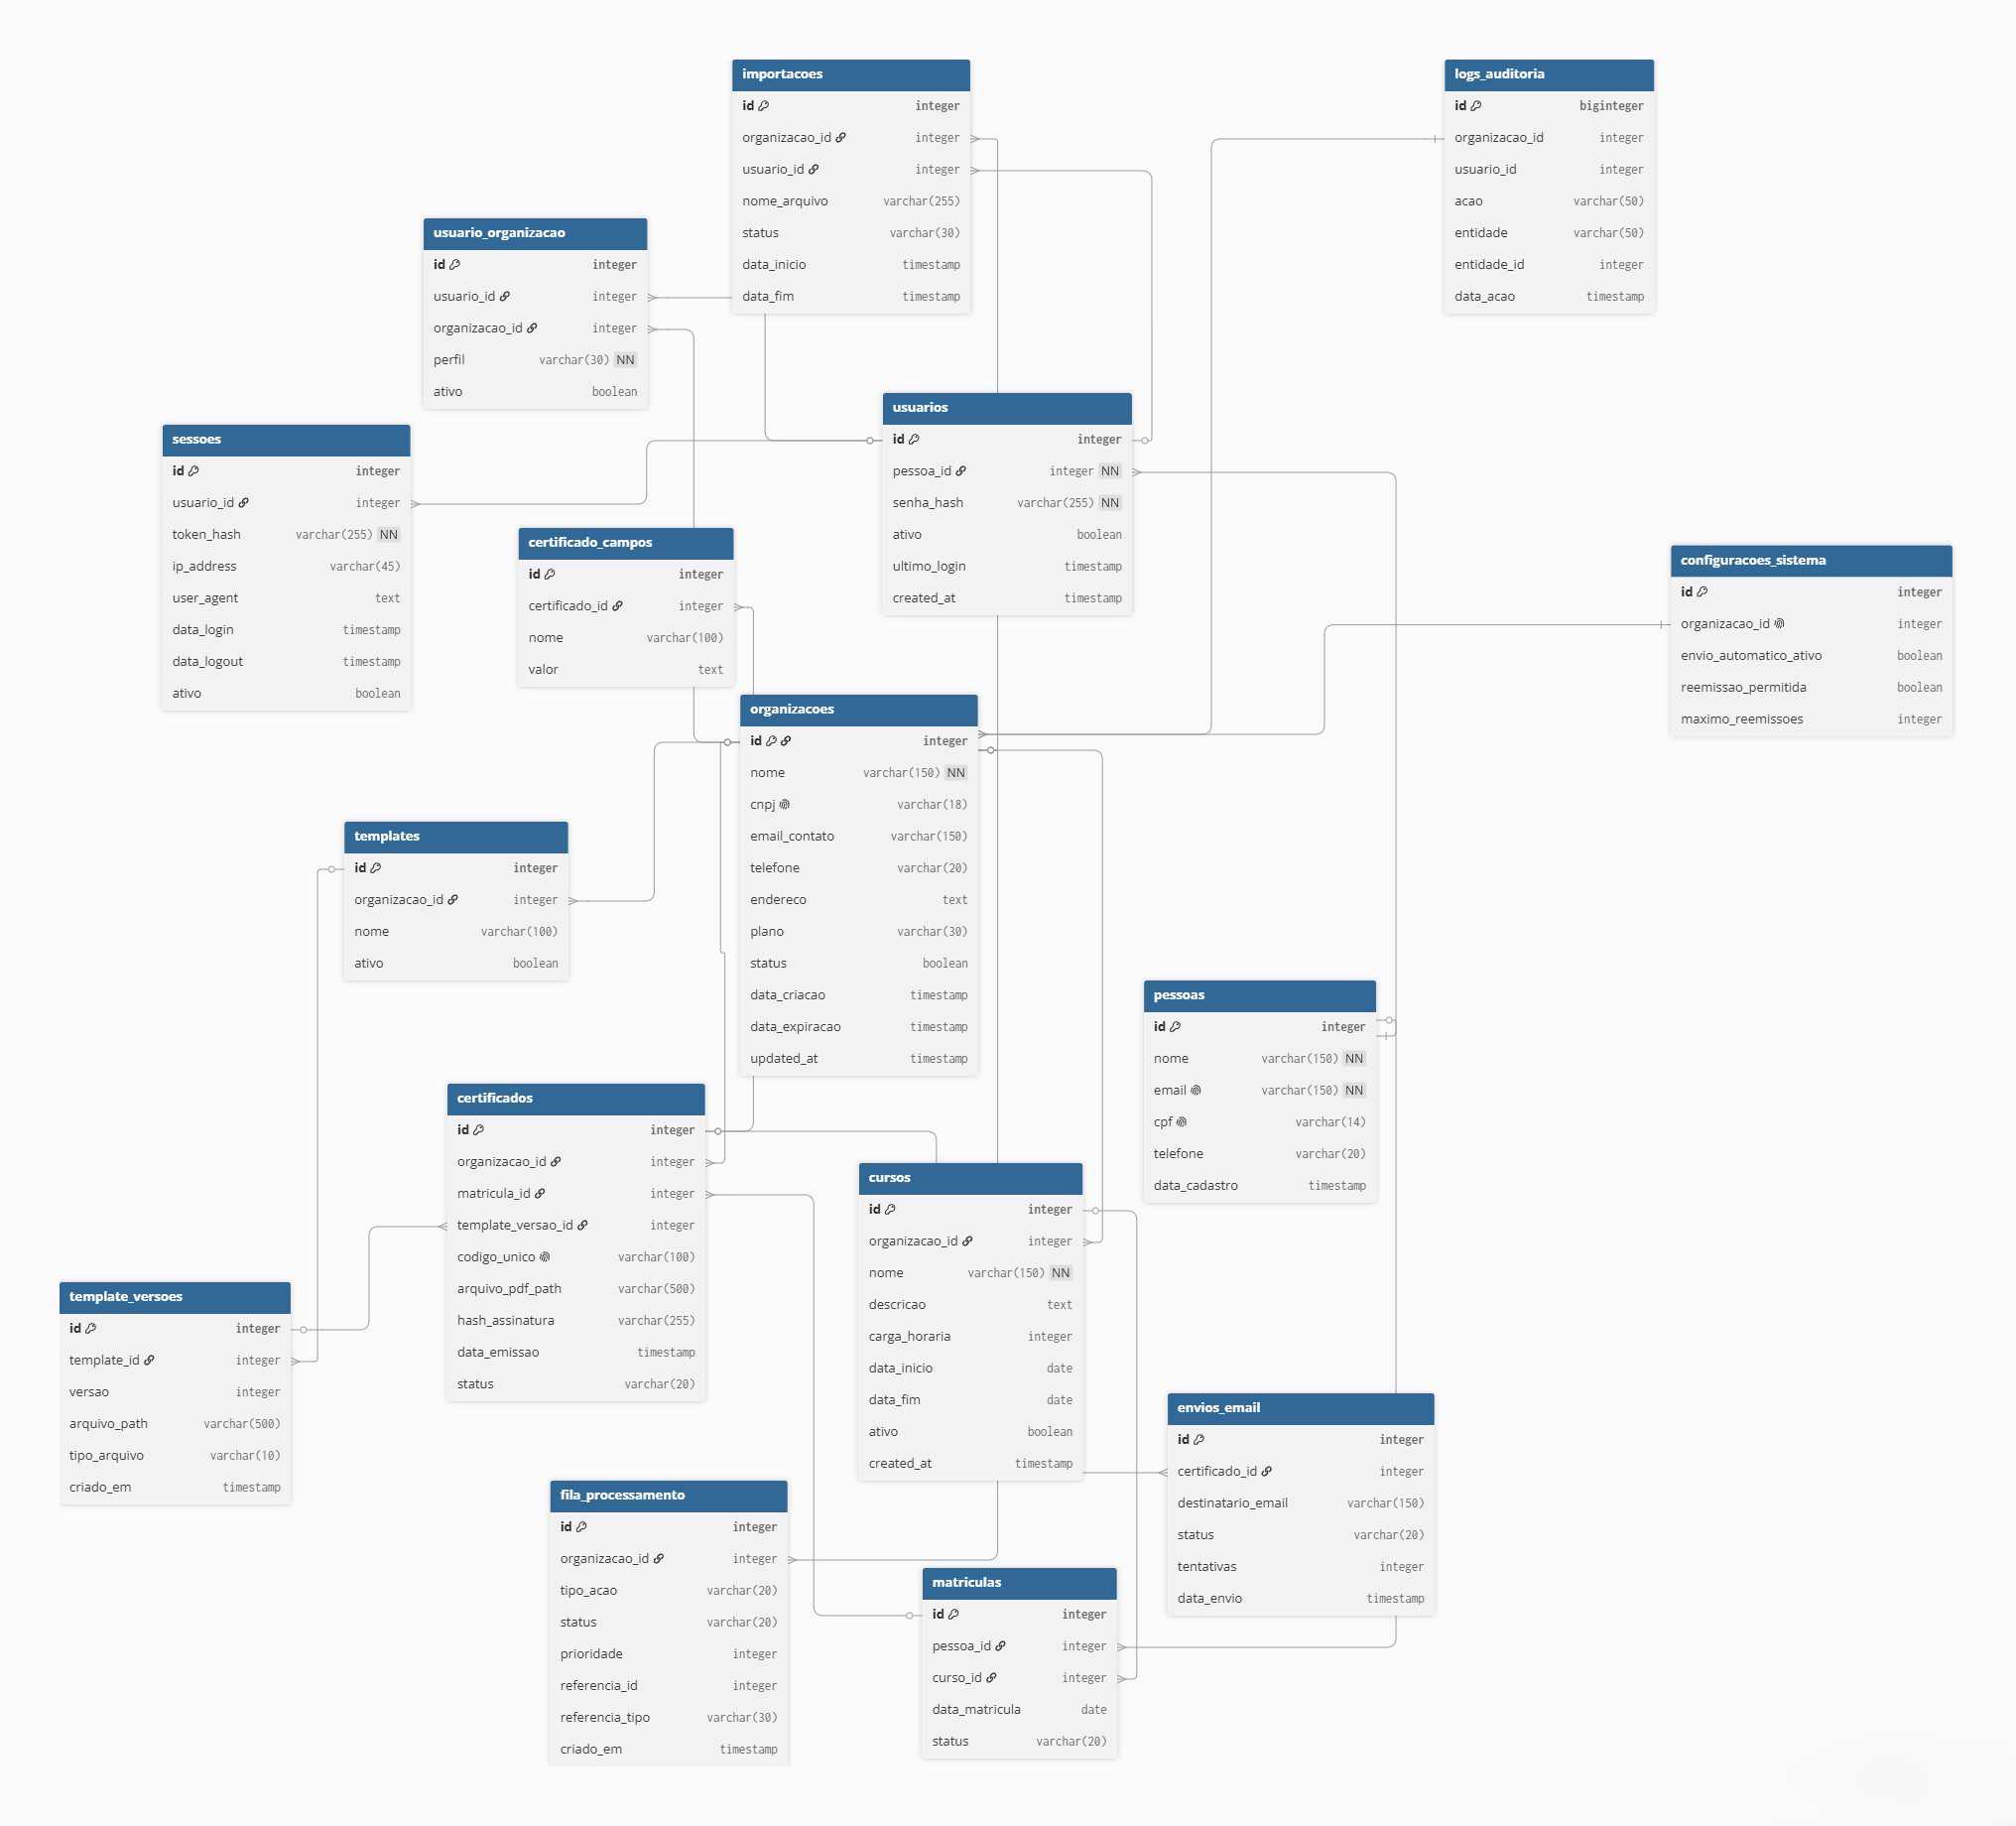
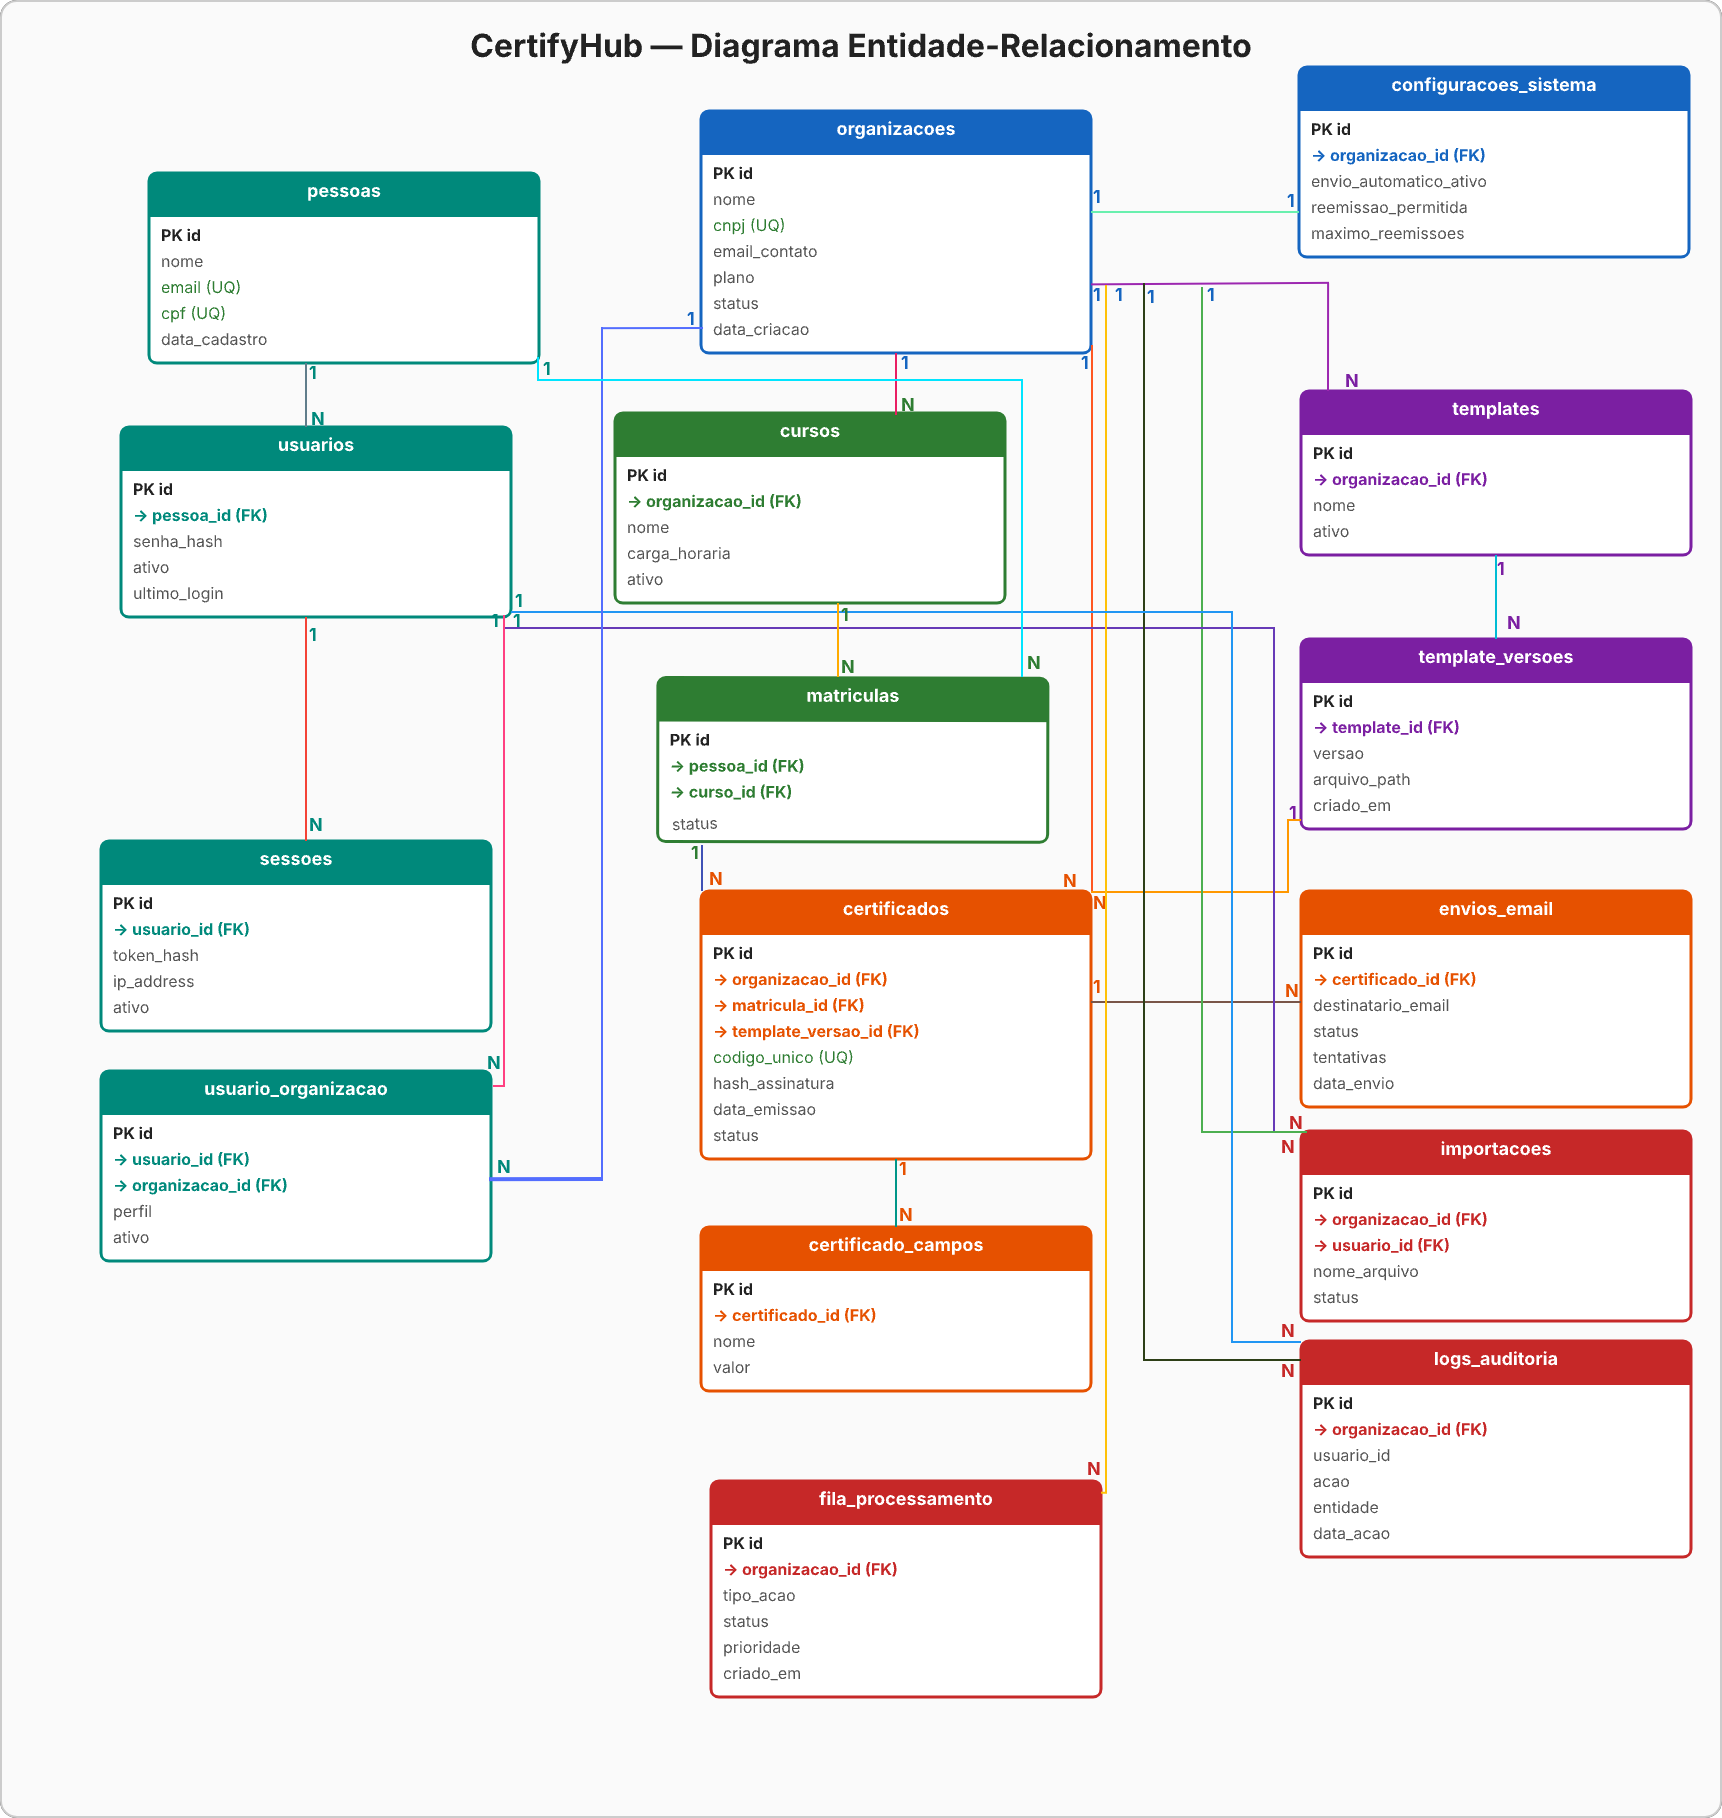
DER: adiciona todos os 18 relacionamentos entre entidades
- Exporta nova imagem do DER com todas as conexões modeladas
- Atualiza legenda com notação pé-de-galinha e cardinalidades explícitas
- Relacionamentos: cursos, templates, template_versoes, certificados,
  certificado_campos, envios_email, matriculas, usuarios, sessoes,
  importacoes, fila_processamento, logs_auditoria,
  usuario_organizacao, pessoas, configuracoes_sistema

diff --git a/partes/diagramas/der.tex b/partes/diagramas/der.tex
@@ -1,6 +1,6 @@
 \begin{figure}[H]
     \centering
     \includegraphics[width=0.9\textwidth]{imagens/DER.png}
-    \caption{Diagrama Entidade-Relacionamento (DER) do Banco de Dados}
+    \caption{Diagrama Entidade-Relacionamento (DER) do Banco de Dados --- Notação pé-de-galinha (Engenharia da Informação) com cardinalidades explícitas (1, N, M) em todos os relacionamentos}
     \label{fig:der}
 \end{figure}